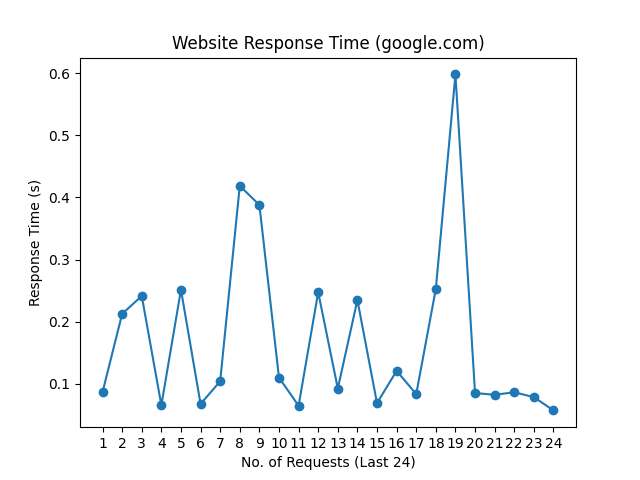
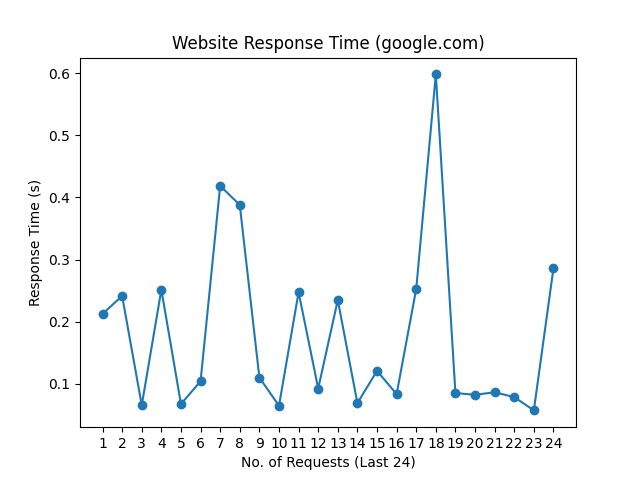
update README.md, history and graph

Changed region(s): [[0.1562, 0.125, 0.875, 0.875], [0.8438, 0.5312, 0.875, 0.75]]

diff --git a/README.md b/README.md
@@ -1,10 +1,10 @@
 # Web Monitoring
 
-Last Checked: 09/10/2023 09:00
+Last Checked: 10/10/2023 08:59
 
 | Website | Response Time (s) | Status | Avg Uptime (%) |
 |---------|-------------------|--------|----------------|
 | www.thiswebsiteisdown.net | 0 <br> <img src="graph/thiswebsiteisdown.net.png" alt="Graph" width="200" height="200">  | ❌ Down | 0.00 |
-| www.netflix.com | 0.544433 <br> <img src="graph/netflix.com.png" alt="Graph" width="200" height="200">  | ✅ Up | 100.00 |
-| www.google.com | 0.057219 <br> <img src="graph/google.com.png" alt="Graph" width="200" height="200">  | ✅ Up | 100.00 |
-| www.facebook.com | 0.273055 <br> <img src="graph/facebook.com.png" alt="Graph" width="200" height="200">  | ✅ Up | 100.00 |
+| www.netflix.com | 0.841073 <br> <img src="graph/netflix.com.png" alt="Graph" width="200" height="200">  | ✅ Up | 100.00 |
+| www.google.com | 0.285958 <br> <img src="graph/google.com.png" alt="Graph" width="200" height="200">  | ✅ Up | 100.00 |
+| www.facebook.com | 0.585973 <br> <img src="graph/facebook.com.png" alt="Graph" width="200" height="200">  | ✅ Up | 100.00 |
